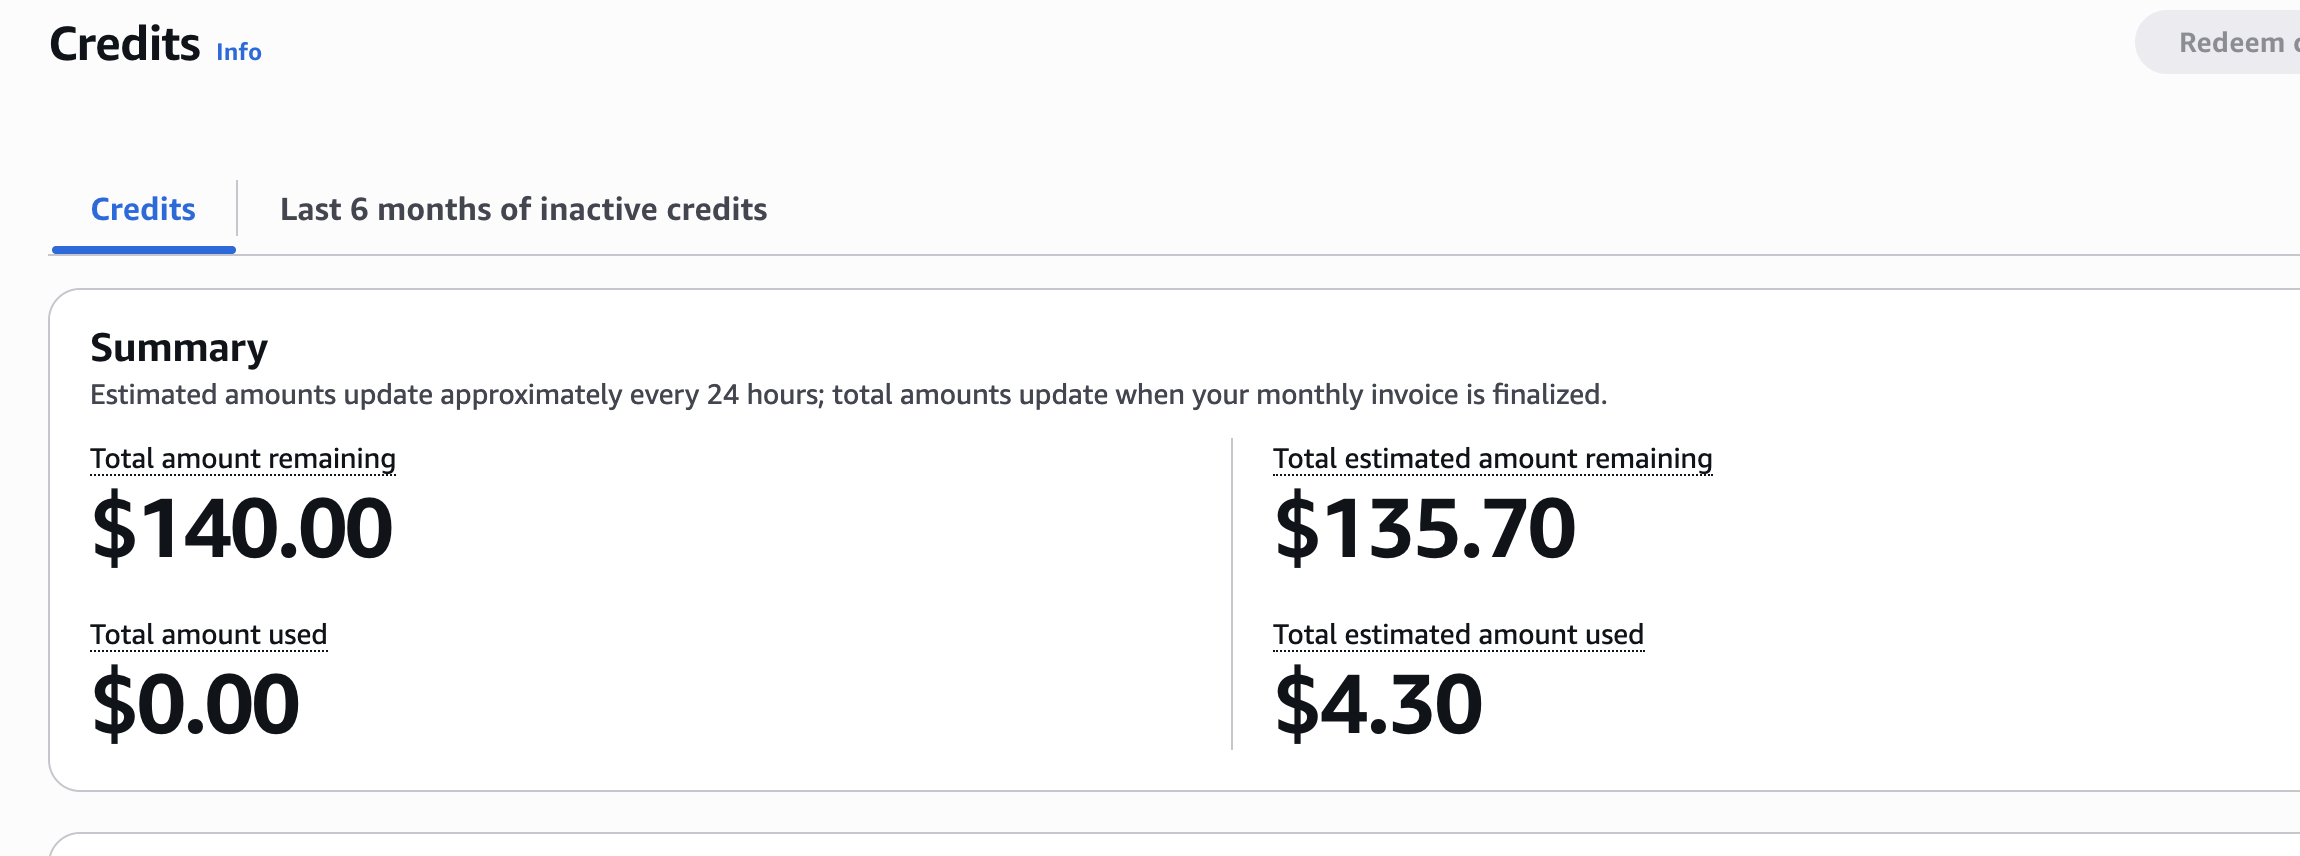
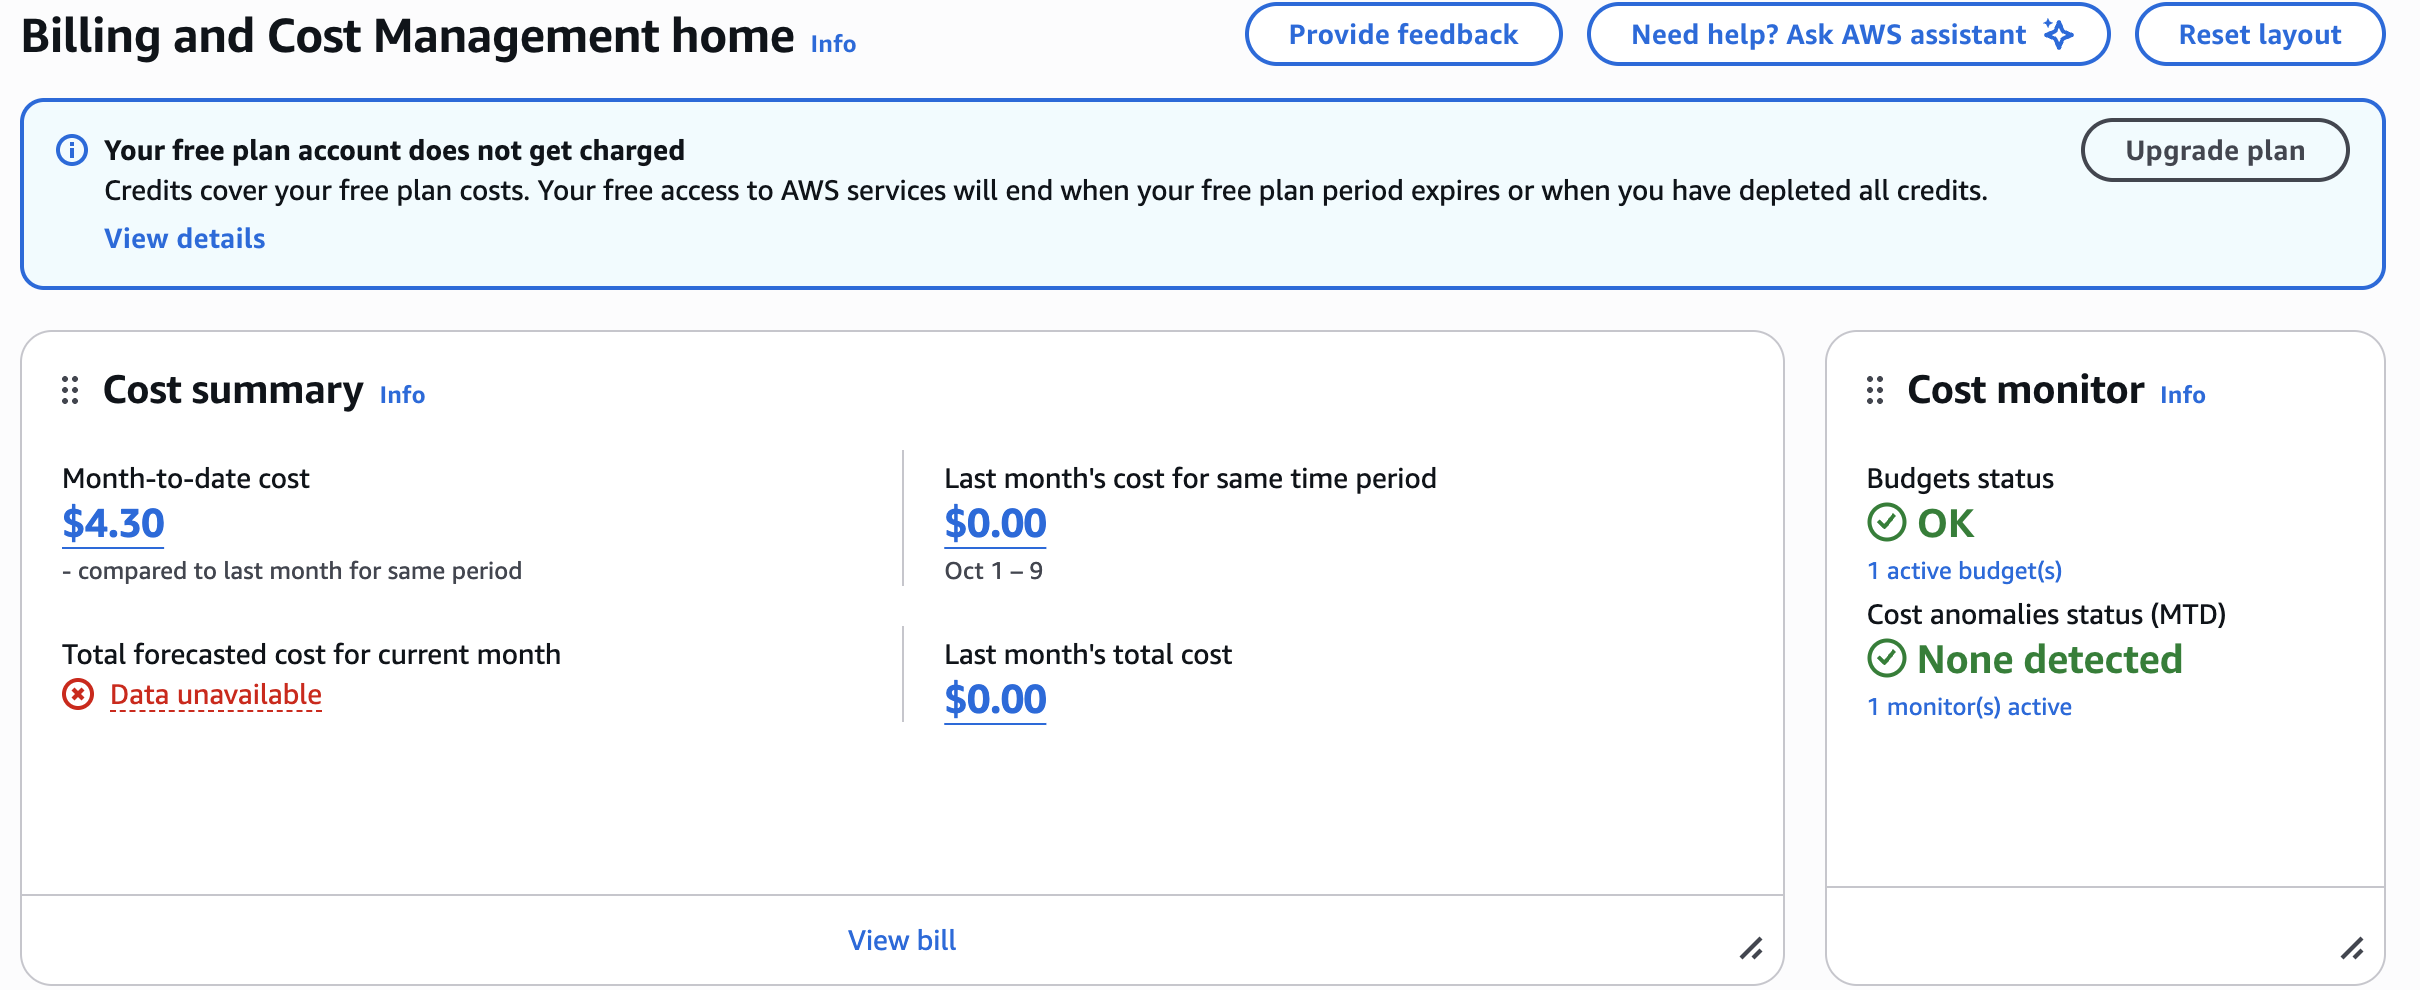
docs: use month-to-date billing screenshot in Ex07
Crop out the account ID, drop the extra migration-notes link,
and fix the screenshot caption.

diff --git a/docs/evidence/ex07.md b/docs/evidence/ex07.md
@@ -3,8 +3,6 @@
 Results for moving `csetioko.me` from Railway to AWS (EC2 + RDS). Times are
 Pacific. The architecture diagram is in the README:
 [Deploy on AWS → Architecture and why](../../README.md#architecture-and-why).
-Every place the move differed from the plan is in
-[migration-notes.md](../../migration-notes.md).
 
 ## 1. Architecture decision
 
@@ -60,6 +58,6 @@ a new Let's Encrypt certificate, `www` and HTTP redirected to
 | | |
 | --- | --- |
 | Estimate (section 6) | **$27.96 a month**: RDS `db.t3.micro` $13.14, EC2 `t3.micro` $7.59, public IPv4 $3.65, RDS storage $2.30, EC2 disk $1.28. Backups and data transfer are $0 within their free allowances. From AWS's us-east-1 price lists, not memory. |
-| Billing page now (2026-11-09) | Credits: **$140.00** total, **$4.30** estimated used, **$135.70** estimated remaining; $0.00 billed to a card. The $4.30 matches the estimate: it's about 4.6 days at $27.96 a month, and the resources have run for about 5 days. At this rate the credits last about 4.9 more months. AWS updates these estimates about every 24 hours. |
+| Billing page now (2026-11-09) | Month-to-date cost **$4.30**, all covered by credits on the free plan ($0.00 charged). The Credits page shows **$140.00** total and **$135.70** estimated remaining. The $4.30 matches the estimate: it's about 4.6 days at $27.96 a month, and the resources have run for about 5 days. At this rate the credits last about 4.9 more months. A budget alert is active. |
 
-![AWS Billing and Cost Management credits and month-to-date cost](ex07-billing.png)
+![AWS Billing and Cost Management home: free plan, month-to-date cost $4.30, one active budget](ex07-billing.png)

diff --git a/migration-notes.md b/migration-notes.md
@@ -51,3 +51,4 @@ This repo is public, so no IP addresses, account IDs, passwords or resource IDs 
 - **The guide's premise that Railway keeps serving the real domain no longer holds.** `csetioko.me` returns Railway's `404 Application not found` (`x-railway-fallback: true`), so the main domain is down until the cutover in section 11.
 - **2026-11-09:** README updated for AWS (course guide section 12): architecture diagram, why EC2 + RDS, running and deploying, backups and restore, what was tested, cost table, next steps. The Mermaid diagram was checked by hand; rendering it locally was blocked.
 - **2026-11-09:** Chris checked the browser padlock (certificate valid) and the Cloudflare dashboard (screenshot in `docs/evidence/ex07-dns.png`). Both pass.
+- **2026-11-09:** Billing home (root) shows month-to-date cost $4.30, $0.00 charged, and 1 active budget, so Task 0's budget alert exists. Credits: $140.00 total, $135.70 remaining.
